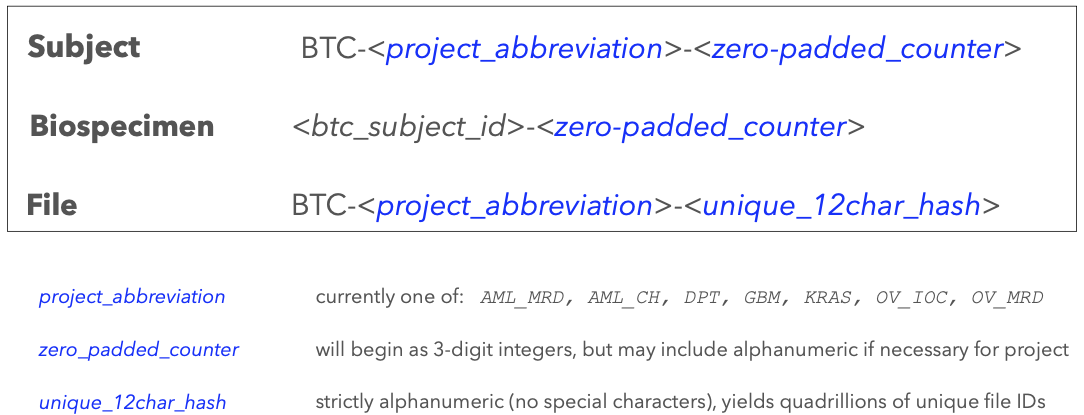
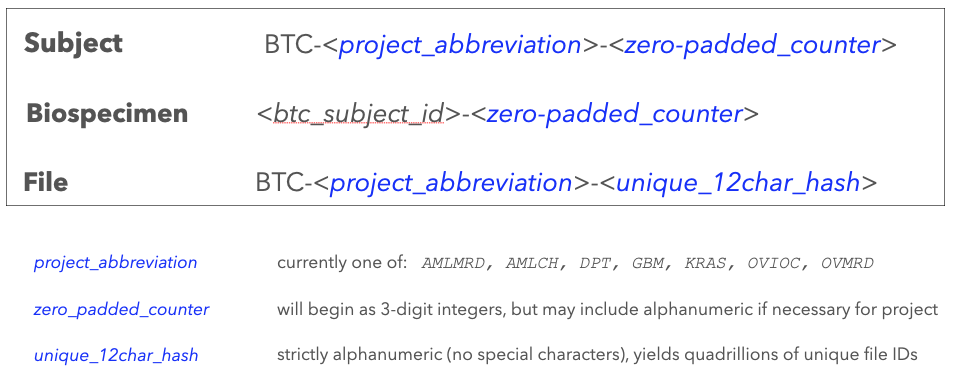
v0.53: added more FAQ content on data submission & downloading; remove hyphens from project names that appear in BTC ids; mention protocol and analysis working groups

diff --git a/docs/index.html b/docs/index.html
@@ -139,7 +139,7 @@
               </ul>
             </li>
             
-            <li class="nav-item" data-level="2"><a href="#version-052" class="nav-link">Version 0.52</a>
+            <li class="nav-item" data-level="2"><a href="#version-053" class="nav-link">Version 0.53</a>
               <ul class="nav flex-column">
               </ul>
             </li>
@@ -188,13 +188,15 @@ moving rightward, and we are committed to an iterative, <a href="https://agilema
 data and software releases to further BTC goals.</p>
 <h2 id="submitting-and-tracking">Submitting and Tracking</h2>
 <hr />
-<p>Please <a href="mailto:dash@breakthroughcancer.org">contact the DASH team</a> when your TeamLab is ready to add data to DASH. We'll be happy to
-guide the process and help decide which staging method is appropriate, as well as perform initial data validation; this may include
-verification with the TeamLab (and/or PI, etc) that the data are indeed eligible and ready for sharing, initial PHI assessment,
-verifying that trial-specific IDs (when applicable) have been entered into the
+<p>Please <a href="mailto:dash@breakthroughcancer.org">contact the DASH team</a> when your TeamLab is ready to add data to DASH. We'll be happy to guide the process, starting with adding entries to the
 <a target=_blank
-href="https://breakthroughcancer.sharepoint.com/:x:/s/DataScienceHub/EXcr6XK3eTdEienLGINk6WQBxOI0Xdt78GhulUT9gXz-PQ?e=2VTl1d">
-data submission tracker</a> and associated with corresponding BTC identifiers, and that sufficient metadata are captured.</p>
+href="https://breakthroughcancer.sharepoint.com/:x:/s/DataScienceHub/EXcr6XK3eTdEienLGINk6WQBxOI0Xdt78GhulUT9gXz-PQ?e=2VTl1d"> data submission tracker</a>
+and deciding which <a href="#staging-area">staging method</a> is appropriate, as well as perform initial data validation; this
+may include verification with the TeamLab (and/or PI, etc) that the data are indeed eligible and ready for sharing,
+initial PHI assessment, verifying that trial-specific IDs (when applicable) have been entered into the
+<a target=_blank
+href="https://breakthroughcancer.sharepoint.com/:x:/s/DataScienceHub/EXcr6XK3eTdEienLGINk6WQBxOI0Xdt78GhulUT9gXz-PQ?e=2VTl1d"> data submission tracker</a> 
+and associated with corresponding BTC identifiers, and that sufficient metadata are captured.</p>
 <p>In addition to surfacing the inventory of data being readied for inclusion in DASH, the tracker will also indicate through what
 phase each dataset has progressed rightward during its life cycle. While the data SOP remains under development and not fully
 operational, this process may take a week or more after initial submission; but the tracker will reflect when data are
@@ -246,21 +248,26 @@ GTEx portal</a>
 <img alt="gtex-portal-excerpt" src="img/gtex-portal.png" /></p>
 <h2 id="analysis-and-pipelines">Analysis and Pipelines</h2>
 <hr />
-<p>The DST is working with disease teams to 
-<a target=_blank href="https://breakthroughcancer.sharepoint.com/:x:/s/BreakThroughCancerStaff/Ef9cmbzRyaZIo82GR-siTPUBmjd2x9lE-nKo3MbCbpqH_g?e=sptYZs">compile data and analysis needs cutting across BTC efforts</a> and</p>
-<p>For each data type in this list
-the DST will provide pipelines and/or tools for each <a href="#omic-data-levels">data level</a>: from Levels 1 and 2 primary
-data generation (L1, L2) through subsequent L3 and L4 analyses.  This work is still early but very active, and a
-number of analysis pipelines are already available from
+<p>To guide data generation and analysis the DST has established
+<a target=_blank href="https://breakthroughcancer.sharepoint.com/:x:/s/BreakThroughCancerStaff/Ef9cmbzRyaZIo82GR-siTPUBmjd2x9lE-nKo3MbCbpqH_g?e=sptYZs">Protocol and Analysis working groups</a> with disease teams, which aim to:
+identify needs cutting across TeamLabs, align common SOPs for data generation and QC, coordinate changes as
+new technologies and needs arise, tie each central analytic pipeline to consumers of its data in each
+TeamLab, and perform regular check-ins to ensure analytic approaches continue to suit disease TeamLab
+objectives.</p>
+<p>For each data type generated across two or more TeamLabs the DST will provide best-practices pipelines and/or
+tools for each <a href="#omic-data-levels">data level</a>: from Levels 1 and 2 primary data generation (L1, L2) through
+subsequent L3 and L4 analyses.  This work is still early but very active, and a number of analysis pipelines
+are already available from
 <a href="https://broadinstitute.github.io/warp/docs/get-started/">Terra</a>, MDAnderson, <a href="https://nf-co.re">NextFlow nf-core</a>
 and the <a href="https://openwetware.org/wiki/BioMicroCenter">MIT BioMicroCenter</a>.  Please contact the
 <a href="mailto:dash@breakthroughcancer.org">DASH team</a> for more information if you are unsure of how to proceed.</p>
 <h2 id="btc-identifier-scheme">BTC Identifier Scheme</h2>
-<p>Subject and sample (biospecimen) identifiers will be attached to BTC data as follows:
+<hr />
+<p>As data are added to DASH they will be tagged with subject and sample (biospecimen) identifiers as follows:
 <img alt="btc-id-scheme" src="img/btc-id-scheme.png" />
-Here “biospecimen” is preferred over “sample” for generality and to capture that samples can be subdivided into multiple portions. The association 
-between data file and biospecimen is maintained as metadata within the DASH database, not within the file identifier itself.  A hypothetical data 
-tree for the first subject (patient) of the BTC glioblastoma multiforme trial might look like
+At minimum such IDs will be attached to BTC trial data; ideally to BTC pre-clinicial data as well, and potentially to external data as appropriate. Note that here “biospecimen” is preferred over “sample” for generality and to capture that samples can be subdivided into multiple portions. The association between data file and biospecimen is maintained as
+metadata within the DASH database, not within the file identifier itself.  A hypothetical data tree for the first
+subject (patient) of the BTC glioblastoma multiforme trial might look like
 <img alt="gbm-id-example" src="img/gbm-id-example.png" />
 Here 6 needle biopsy cores (samples) were extracted; the first of which has been characterized in multiple assays, yielding 8 distinctly molecular data output files (i.e. one per data type). Each interventional timepoint in a longitudinal trial would yield a new sample (or samples) for that subject.</p>
 <h2 id="data-entities-and-levels">Data Entities and Levels</h2>
@@ -329,7 +336,7 @@ including single-cell and single-nucleus RNA Seq (sc/snRNASeq), single-cell ATAC
 <li>And simplifying later bookkeeping and database tracing when assembling data for publication</li>
 </ul>
 <p>but should not be interpreted as a claim that BTC now “owns” or is attempting to “re-brand” those external data.</p>
-<h2 id="version-052">Version 0.52</h2></div>
+<h2 id="version-053">Version 0.53</h2></div>
             </div>
         </div>
 
@@ -410,8 +417,8 @@ including single-cell and single-nucleus RNA Seq (sc/snRNASeq), single-cell ATAC
 
 <!--
 MkDocs version : 1.4.2
-Build Date UTC : 2023-02-26 02:05:38.057403+00:00
+Build Date UTC : 2023-02-26 15:54:22.084329+00:00
 -->
 <center  style="font-size:.85em; color: #bababa; margin-top: -1.5em">
-2023_02_25_21:05:38
+2023_02_26_10:54:22
 </center>

diff --git a/docs/faq/index.html b/docs/faq/index.html
@@ -93,21 +93,34 @@
 </style>
 
 <h2 id="btc-data-science-frequently-asked-questions">BTC Data Science Frequently Asked Questions</h2>
+<hr>
+
 <ol>
 <li>
-<p><strong>Who is responsible for data analysis within BTC disease team labs?</strong></p>
-<p>There is fuzzy overlap in responsibility for analysis:  it should be driven to the greatest extent possible by the 
-disease teamlab, as reflected in their respective budgets, and supported by the Data Science TeamLab (DST) in whatever
-means necessary (whether computational analytics, data engineering, visualization, etc), but not wholly outsourced
-from the disease teamlab to the DST.</p>
-<p>Where that line is drawn for each scientific question or project will likely shift—and may also depend upon trial timelines 
-and staffing—-probably in some cases the data scientists may need to pick up more of the analysis, in others less so.  But 
-the overall view, at least initially while BTC finds its operational footing vis-à-vis data science, is that the DST is not
-“just another core, service-oriented facility,” but rather is a resource of expert collaborators who devise new methods 
-(when needed), or assist with data gathering/engineering, or provide analytic insight and/or assist with interpretation.</p>
+<p><strong>How do I submit data from my TeamLab into DASH?</strong></p>
+<p>Please <a href="mailto:dash@breakthroughcancer.org">contact the DASH team</a> when your TeamLab is ready to add data to DASH.
+We'll be happy to guide the process, starting with adding entries to the
+<a target=_blank
+href="https://breakthroughcancer.sharepoint.com/:x:/s/DataScienceHub/EXcr6XK3eTdEienLGINk6WQBxOI0Xdt78GhulUT9gXz-PQ?e=2VTl1d"> data submission tracker</a>
+and deciding which <a href="../#staging-area">staging method</a> is appropriate.  For more details, please see the
+   <a href="../#submitting-and-tracking">submission section of the data reference</a>.</p>
 </li>
 <li>
-<p><strong>What pipelines will be available to assist with my analysis?</strong>
+<p><strong>How can I see what data is in DASH or retrieve it for my work?</strong></p>
+<p>Development of a simple browser interface for exploring and downloading data is underway and a very high
+priority.  Until this is available you may use</p>
+<ul>
+<li>
+<p>The <a target=_blank
+href="https://breakthroughcancer.sharepoint.com/:x:/s/DataScienceHub/EXcr6XK3eTdEienLGINk6WQBxOI0Xdt78GhulUT9gXz-PQ?e=2VTl1d"> data tracker</a> to see what teams have submitted data and whether it is ready for download</p>
+</li>
+<li>
+<p>Command line tools to download directly from cloud buckets (<a href="mailto:dash@breakthroughcancer.org">contact the DASH team</a> for more details)</p>
+</li>
+</ul>
+</li>
+<li>
+<p><strong>What pipelines will be available for analysis?</strong>
    This is discussed in <a href="../#analysis-and-pipelines">the data reference</a>.</p>
 </li>
 <li>
@@ -115,25 +128,35 @@ the overall view, at least initially while BTC finds its operational footing vis
    This is also discussed in <a href="../#analysis-and-pipelines">the data reference</a>.</p>
 </li>
 <li>
-<p><strong>Ideally, what kind of biospecimen metadata will be collected?</strong></p>
-<ul>
-<li>Sample acquisition method, e.g. autopsy, biopsy, fine needle aspirate, etc.</li>
-<li>Topography Code, indicating site within the body, e.g. based on ICD-O-3.</li>
-<li>Collection information e.g. time, duration of ischemia, temperature, etc.</li>
-<li>Processing of parent biospecimen information e.g. fresh, frozen, etc.</li>
-<li>Biospecimen and derivative clinical metadata I.e. Histologic Morphology Code, e.g. based on ICD-O-3.</li>
-<li>Coordinates for derivative biospecimen from their parent biospecimen.</li>
-<li>Processing of derivative biospecimen for downstream analysis e.g. dissociation, sectioning, analyte isolation 
-<br>
-<br></li>
-</ul>
-<p>This list is adapted from <a href="https://humantumoratlas.org/standard/biospecimen">HTAN standards</a> and is not intended 
-to be mandatory constraints imposed by the DST upon clinical trial teams or disease team labs; we are in the process
-of defining the minimum viable set of clinical data elements (CDEs) for BTC projects.</p>
+<p><strong>Who is responsible for data analysis within BTC disease team labs?</strong></p>
+<p>There is fuzzy overlap in responsibility for analysis:  it should be driven to the greatest extent possible by the
+disease teamlab, as reflected in their respective budgets, and supported by the Data Science TeamLab (DST)
+in whatever means necessary (whether computational analytics, data engineering, visualization, etc), but not
+wholly outsourced from the disease teamlab to the DST.</p>
+<p>Where that line is drawn for each scientific question or project will likely shift—and may also depend upon
+trial timelines and staffing—-probably in some cases the data scientists may need to pick up more of the
+analysis, in others less so.  But the overall view, at least initially while BTC finds its operational
+footing vis-à-vis data science, is that the DST is not “just another core, service-oriented facility,” but
+is a resource of expert collaborators who devise new methods (when needed), or assist with data
+gathering/engineering, or provide analytic insight and/or assist with interpretation.</p>
 </li>
 <li>
-<p><strong>How do I submit data from my TeamLab into DASH?</strong>
-   This is discussed in <a href="../#submitting-and-tracking">the data reference</a>.</p>
+<p><strong>What kind of biospecimen metadata will be collected?</strong></p>
+<p>This will likely be different for each trial, but ideally we aim to collect as much as possible, including:</p>
+<ul>
+<li>Sample acquisition method, e.g. autopsy, biopsy, fine needle aspirate, etc</li>
+<li>Topography Code, indicating site within the body, e.g. based on ICD-O-3</li>
+<li>Collection information e.g. time, duration of ischemia, temperature, etc</li>
+<li>Processing of parent biospecimen information e.g. fresh, frozen, etc</li>
+<li>Biospecimen and derivative clinical metadata I.e. Histologic Morphology Code, e.g. based on ICD-O-3</li>
+<li>Coordinates for derivative biospecimen from their parent biospecimen</li>
+<li>Processing of derivative biospecimen for downstream analysis e.g. dissociation, sectioning, analyte isolation 
+<br>
+<br>
+ This is adapted from <a href="https://humantumoratlas.org/standard/biospecimen">HTAN standards</a> and is not intended
+ to be mandatory constraints imposed by the DST upon clinical trial teams or disease team labs; we are in the
+ process of defining the minimum viable set of clinical data elements (CDEs) for BTC projects.</li>
+</ul>
 </li>
 </ol></div>
             </div>
@@ -214,5 +237,5 @@ of defining the minimum viable set of clinical data elements (CDEs) for BTC proj
     </body>
 </html>
 <center  style="font-size:.85em; color: #bababa; margin-top: -1.5em">
-2023_02_25_21:05:38
+2023_02_26_10:54:22
 </center>

diff --git a/docs/about/index.html b/docs/about/index.html
@@ -263,5 +263,5 @@ but as new methods develop across BTC and beyond we’ll seek to harden them for
     </body>
 </html>
 <center  style="font-size:.85em; color: #bababa; margin-top: -1.5em">
-2023_02_25_21:05:38
+2023_02_26_10:54:22
 </center>

diff --git a/src/content/faq.md b/src/content/faq.md
@@ -4,42 +4,61 @@
 </style>
 
 ## BTC Data Science Frequently Asked Questions
+<hr>
 
+1. **How do I submit data from my TeamLab into DASH?**
 
-1. **Who is responsible for data analysis within BTC disease team labs?**
+    Please [contact the DASH team](mailto:dash@breakthroughcancer.org) when your TeamLab is ready to add data to DASH.
+    We'll be happy to guide the process, starting with adding entries to the
+<a target=_blank
+href="https://breakthroughcancer.sharepoint.com/:x:/s/DataScienceHub/EXcr6XK3eTdEienLGINk6WQBxOI0Xdt78GhulUT9gXz-PQ?e=2VTl1d"> data submission tracker</a>
+and deciding which [staging method](index.md#staging-area) is appropriate.  For more details, please see the
+   [submission section of the data reference](index.md#submitting-and-tracking).
 
-    There is fuzzy overlap in responsibility for analysis:  it should be driven to the greatest extent possible by the 
-    disease teamlab, as reflected in their respective budgets, and supported by the Data Science TeamLab (DST) in whatever
-    means necessary (whether computational analytics, data engineering, visualization, etc), but not wholly outsourced
-    from the disease teamlab to the DST.
+2. **How can I see what data is in DASH or retrieve it for my work?**
 
-    Where that line is drawn for each scientific question or project will likely shift—and may also depend upon trial timelines 
-    and staffing—-probably in some cases the data scientists may need to pick up more of the analysis, in others less so.  But 
-    the overall view, at least initially while BTC finds its operational footing vis-à-vis data science, is that the DST is not
-    “just another core, service-oriented facility,” but rather is a resource of expert collaborators who devise new methods 
-    (when needed), or assist with data gathering/engineering, or provide analytic insight and/or assist with interpretation.
+    Development of a simple browser interface for exploring and downloading data is underway and a very high
+    priority.  Until this is available you may use
 
-2. **What pipelines will be available to assist with my analysis?**
+    - The <a target=_blank
+href="https://breakthroughcancer.sharepoint.com/:x:/s/DataScienceHub/EXcr6XK3eTdEienLGINk6WQBxOI0Xdt78GhulUT9gXz-PQ?e=2VTl1d"> data tracker</a> to see what teams have submitted data and whether it is ready for download
+
+    - Command line tools to download directly from cloud buckets ([contact the DASH team](mailto:dash@breakthroughcancer.org) for more details)
+
+3. **What pipelines will be available for analysis?**
    This is discussed in [the data reference](index.md#analysis-and-pipelines).
 
-3. **What assays (data types) will the pipelines operate upon?**
+4. **What assays (data types) will the pipelines operate upon?**
    This is also discussed in [the data reference](index.md#analysis-and-pipelines).
 
-4. **Ideally, what kind of biospecimen metadata will be collected?**
-    - Sample acquisition method, e.g. autopsy, biopsy, fine needle aspirate, etc.
-    - Topography Code, indicating site within the body, e.g. based on ICD-O-3.
-    - Collection information e.g. time, duration of ischemia, temperature, etc.
-    - Processing of parent biospecimen information e.g. fresh, frozen, etc.
-    - Biospecimen and derivative clinical metadata I.e. Histologic Morphology Code, e.g. based on ICD-O-3.
-    - Coordinates for derivative biospecimen from their parent biospecimen.
+5. **Who is responsible for data analysis within BTC disease team labs?**
+
+    There is fuzzy overlap in responsibility for analysis:  it should be driven to the greatest extent possible by the
+    disease teamlab, as reflected in their respective budgets, and supported by the Data Science TeamLab (DST)
+	in whatever means necessary (whether computational analytics, data engineering, visualization, etc), but not
+	wholly outsourced from the disease teamlab to the DST.
+
+    Where that line is drawn for each scientific question or project will likely shift—and may also depend upon
+	trial timelines and staffing—-probably in some cases the data scientists may need to pick up more of the
+	analysis, in others less so.  But the overall view, at least initially while BTC finds its operational
+	footing vis-à-vis data science, is that the DST is not “just another core, service-oriented facility,” but
+	is a resource of expert collaborators who devise new methods (when needed), or assist with data
+	gathering/engineering, or provide analytic insight and/or assist with interpretation.
+
+6. **What kind of biospecimen metadata will be collected?**
+
+     This will likely be different for each trial, but ideally we aim to collect as much as possible, including:
+
+    - Sample acquisition method, e.g. autopsy, biopsy, fine needle aspirate, etc
+    - Topography Code, indicating site within the body, e.g. based on ICD-O-3
+    - Collection information e.g. time, duration of ischemia, temperature, etc
+    - Processing of parent biospecimen information e.g. fresh, frozen, etc
+    - Biospecimen and derivative clinical metadata I.e. Histologic Morphology Code, e.g. based on ICD-O-3
+    - Coordinates for derivative biospecimen from their parent biospecimen
     - Processing of derivative biospecimen for downstream analysis e.g. dissociation, sectioning, analyte isolation 
 <br>
 <br>
+     This is adapted from [HTAN standards](https://humantumoratlas.org/standard/biospecimen) and is not intended
+	 to be mandatory constraints imposed by the DST upon clinical trial teams or disease team labs; we are in the
+	 process of defining the minimum viable set of clinical data elements (CDEs) for BTC projects.
 
-    This list is adapted from [HTAN standards](https://humantumoratlas.org/standard/biospecimen) and is not intended 
-	to be mandatory constraints imposed by the DST upon clinical trial teams or disease team labs; we are in the process
-	of defining the minimum viable set of clinical data elements (CDEs) for BTC projects.
-
-
-5. **How do I submit data from my TeamLab into DASH?**
-   This is discussed in [the data reference](index.md#submitting-and-tracking).

diff --git a/src/content/index.md b/src/content/index.md
@@ -40,13 +40,15 @@ data and software releases to further BTC goals.
 
 ## Submitting and Tracking
 ---
-Please [contact the DASH team](mailto:dash@breakthroughcancer.org) when your TeamLab is ready to add data to DASH. We'll be happy to
-guide the process and help decide which staging method is appropriate, as well as perform initial data validation; this may include
-verification with the TeamLab (and/or PI, etc) that the data are indeed eligible and ready for sharing, initial PHI assessment,
-verifying that trial-specific IDs (when applicable) have been entered into the
+Please [contact the DASH team](mailto:dash@breakthroughcancer.org) when your TeamLab is ready to add data to DASH. We'll be happy to guide the process, starting with adding entries to the
 <a target=_blank
-href="https://breakthroughcancer.sharepoint.com/:x:/s/DataScienceHub/EXcr6XK3eTdEienLGINk6WQBxOI0Xdt78GhulUT9gXz-PQ?e=2VTl1d">
-data submission tracker</a> and associated with corresponding BTC identifiers, and that sufficient metadata are captured.
+href="https://breakthroughcancer.sharepoint.com/:x:/s/DataScienceHub/EXcr6XK3eTdEienLGINk6WQBxOI0Xdt78GhulUT9gXz-PQ?e=2VTl1d"> data submission tracker</a>
+and deciding which [staging method](#staging-area) is appropriate, as well as perform initial data validation; this
+may include verification with the TeamLab (and/or PI, etc) that the data are indeed eligible and ready for sharing,
+initial PHI assessment, verifying that trial-specific IDs (when applicable) have been entered into the
+<a target=_blank
+href="https://breakthroughcancer.sharepoint.com/:x:/s/DataScienceHub/EXcr6XK3eTdEienLGINk6WQBxOI0Xdt78GhulUT9gXz-PQ?e=2VTl1d"> data submission tracker</a> 
+and associated with corresponding BTC identifiers, and that sufficient metadata are captured.
 
 In addition to surfacing the inventory of data being readied for inclusion in DASH, the tracker will also indicate through what
 phase each dataset has progressed rightward during its life cycle. While the data SOP remains under development and not fully
@@ -107,24 +109,29 @@ GTEx portal</a>
 ## Analysis and Pipelines
 ---
 
-The DST is working with disease teams to 
-<a target=_blank href="https://breakthroughcancer.sharepoint.com/:x:/s/BreakThroughCancerStaff/Ef9cmbzRyaZIo82GR-siTPUBmjd2x9lE-nKo3MbCbpqH_g?e=sptYZs">compile data and analysis needs cutting across BTC efforts</a> and
+To guide data generation and analysis the DST has established
+<a target=_blank href="https://breakthroughcancer.sharepoint.com/:x:/s/BreakThroughCancerStaff/Ef9cmbzRyaZIo82GR-siTPUBmjd2x9lE-nKo3MbCbpqH_g?e=sptYZs">Protocol and Analysis working groups</a> with disease teams, which aim to:
+identify needs cutting across TeamLabs, align common SOPs for data generation and QC, coordinate changes as
+new technologies and needs arise, tie each central analytic pipeline to consumers of its data in each
+TeamLab, and perform regular check-ins to ensure analytic approaches continue to suit disease TeamLab
+objectives.
 
-For each data type in this list
-the DST will provide pipelines and/or tools for each [data level](#omic-data-levels): from Levels 1 and 2 primary
-data generation (L1, L2) through subsequent L3 and L4 analyses.  This work is still early but very active, and a
-number of analysis pipelines are already available from
+For each data type generated across two or more TeamLabs the DST will provide best-practices pipelines and/or
+tools for each [data level](#omic-data-levels): from Levels 1 and 2 primary data generation (L1, L2) through
+subsequent L3 and L4 analyses.  This work is still early but very active, and a number of analysis pipelines
+are already available from
 [Terra](https://broadinstitute.github.io/warp/docs/get-started/), MDAnderson, [NextFlow nf-core](https://nf-co.re)
 and the [MIT BioMicroCenter](https://openwetware.org/wiki/BioMicroCenter).  Please contact the
 [DASH team](mailto:dash@breakthroughcancer.org) for more information if you are unsure of how to proceed.
-   
-## BTC Identifier Scheme
 
-Subject and sample (biospecimen) identifiers will be attached to BTC data as follows:
+## BTC Identifier Scheme
+---
+
+As data are added to DASH they will be tagged with subject and sample (biospecimen) identifiers as follows:
 ![btc-id-scheme](img/btc-id-scheme.png)
-Here “biospecimen” is preferred over “sample” for generality and to capture that samples can be subdivided into multiple portions. The association 
-between data file and biospecimen is maintained as metadata within the DASH database, not within the file identifier itself.  A hypothetical data 
-tree for the first subject (patient) of the BTC glioblastoma multiforme trial might look like
+At minimum such IDs will be attached to BTC trial data; ideally to BTC pre-clinicial data as well, and potentially to external data as appropriate. Note that here “biospecimen” is preferred over “sample” for generality and to capture that samples can be subdivided into multiple portions. The association between data file and biospecimen is maintained as
+metadata within the DASH database, not within the file identifier itself.  A hypothetical data tree for the first
+subject (patient) of the BTC glioblastoma multiforme trial might look like
 ![gbm-id-example](img/gbm-id-example.png)
 Here 6 needle biopsy cores (samples) were extracted; the first of which has been characterized in multiple assays, yielding 8 distinctly molecular data output files (i.e. one per data type). Each interventional timepoint in a longitudinal trial would yield a new sample (or samples) for that subject.
 
@@ -201,5 +208,5 @@ In the latter case of external data being assigned BTC IDs, a unique project abb
 
 but should not be interpreted as a claim that BTC now “owns” or is attempting to “re-brand” those external data.
 
-## Version 0.52
+## Version 0.53
 
